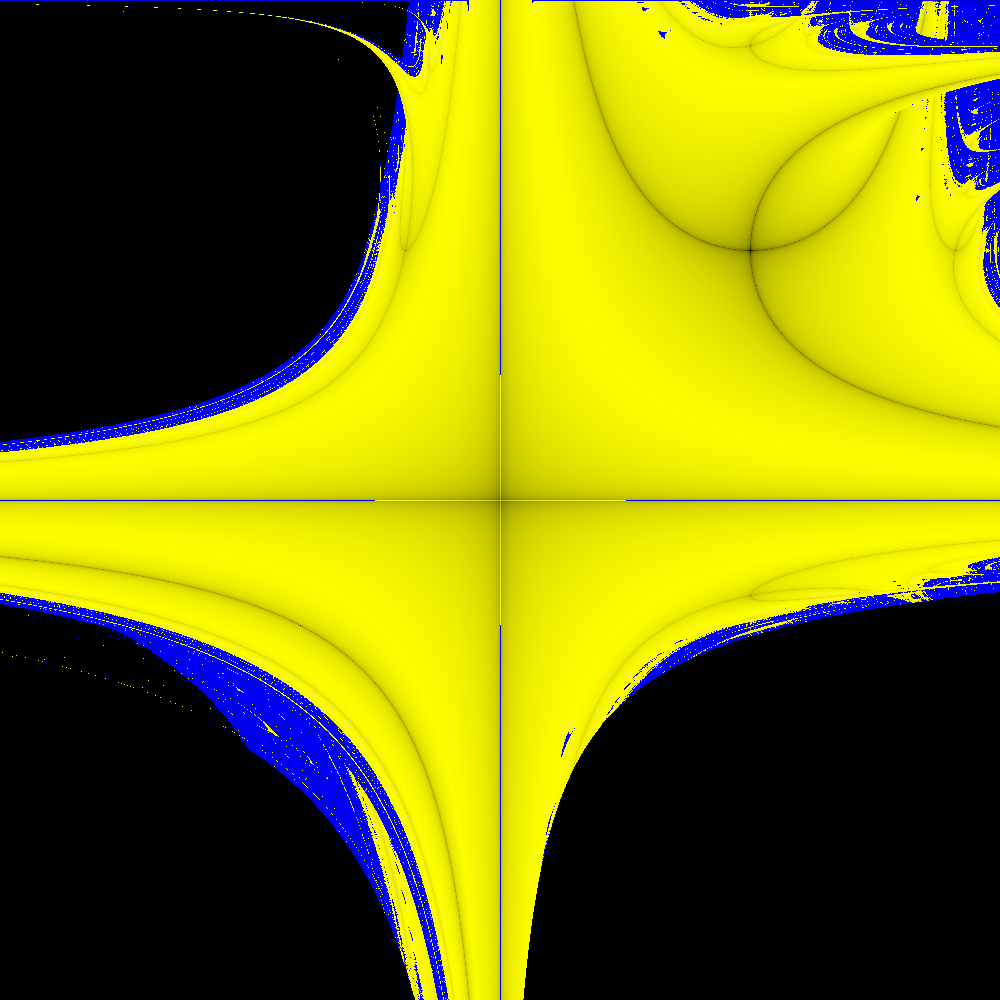
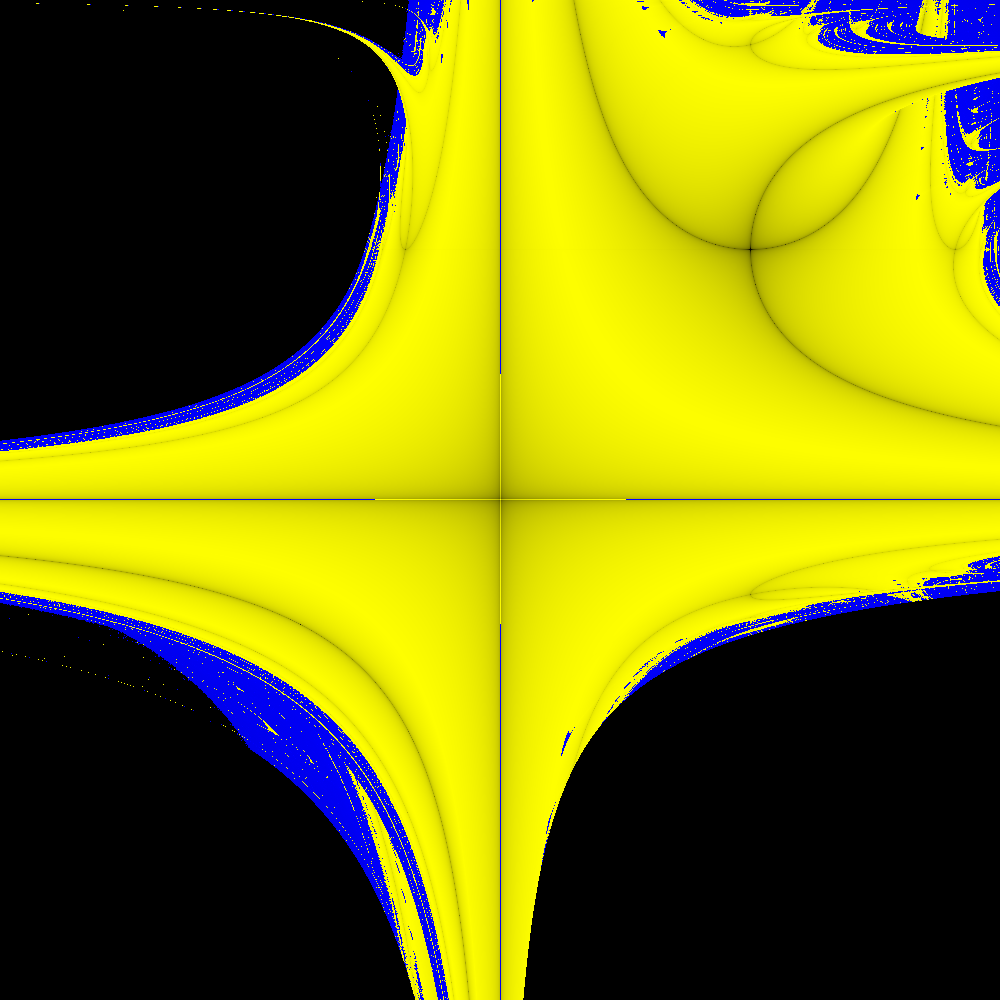
updated y scaling

diff --git a/src/lyapunov.rs b/src/lyapunov.rs
@@ -85,7 +85,13 @@ impl Lyapunov {
         for (x, y, pixel) in imgbuf.enumerate_pixels_mut() {
             let x_length: f32 = self.x_max - self.x_min;
             let y_length: f32 = self.y_max - self.y_min;
-            let a = (y_length / self.height as f32) * (self.height - y) as f32 - self.y_min.abs();
+            // let a = (y_length / self.height as f32)
+            //     * ((self.height - y) as f32 - 2.0 * self.height as f32 / y_length);
+            // let b =
+            //     (x_length / self.width as f32) * (x as f32 - 2.0 * self.width as f32 / x_length);
+
+            let a =
+                (y_length / self.height as f32) * (self.height - y - 1) as f32 - self.y_min.abs();
             let b = (x_length / self.width as f32) * x as f32 - self.x_min.abs();
 
             let mut red: u8 = 0;
